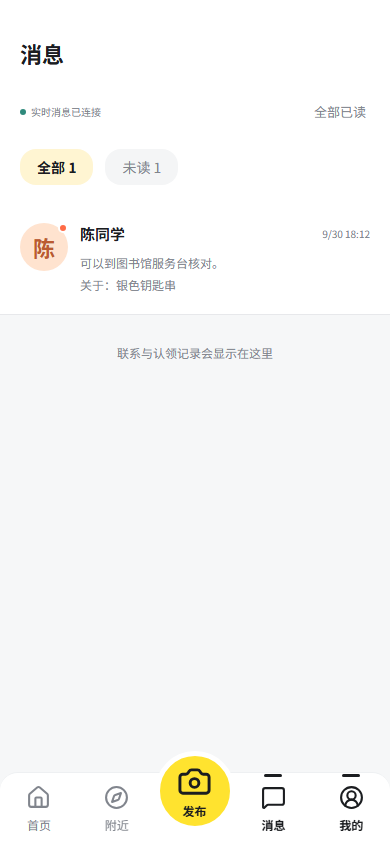
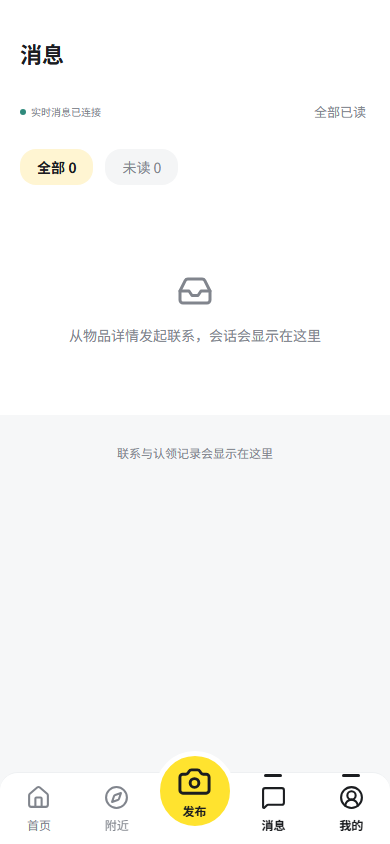
chore: remove demo content and refresh empty-state previews

diff --git a/apps/web/src/components/post-form.tsx b/apps/web/src/components/post-form.tsx
@@ -2,7 +2,7 @@
 import { useState, useEffect, type FormEvent } from 'react';
 import { useRouter } from 'next/navigation';
 import { Plus, X } from 'lucide-react';
-import { categories, campusPlaces } from '../modules/message/constants.ts';
+import { categories } from '../modules/message/constants.ts';
 import { postInputSchema } from '../modules/message/schemas.ts';
 import type { Post, PostInput } from '../modules/message/models.ts';
 import { api, errorMessage } from '@/lib/api';
@@ -196,7 +196,7 @@ export function PostForm() {
           <span>物品名称</span>
           <input
             aria-label="物品名称"
-            placeholder="如：银色钥匙串"
+            placeholder="请输入物品名称"
             value={form.title}
             maxLength={60}
             onChange={(e) => update('title', e.target.value)}
@@ -220,8 +220,7 @@ export function PostForm() {
           <span>{form.type === 'lost' ? '丢失' : '拾取'}地点</span>
           <input
             aria-label="地点"
-            list="campus-places"
-            placeholder="选择地点或手动填写"
+            placeholder="请输入实际地点或在地图上选点"
             value={form.location}
             maxLength={120}
             onChange={(e) => {
@@ -234,11 +233,6 @@ export function PostForm() {
               }));
             }}
           />
-          <datalist id="campus-places">
-            {campusPlaces.map((p) => (
-              <option key={p.name} value={p.name} />
-            ))}
-          </datalist>
         </label>
         <label>
           <span>{form.type === 'lost' ? '丢失' : '拾取'}时间</span>

diff --git a/tests/product.spec.ts b/tests/product.spec.ts
@@ -44,7 +44,7 @@ test('Mobile product flow: publish, search, favorites, history, two-user live ch
   await page.getByRole('link', { name: '发布', exact: true }).click();
   await page.getByRole('textbox', { name: '物品名称', exact: true }).fill(title);
   await page.getByRole('combobox', { name: '物品类别' }).selectOption('keys');
-  await page.getByRole('combobox', { name: '地点', exact: true }).fill('图书馆 · 2楼');
+  await page.getByRole('textbox', { name: '地点', exact: true }).fill('图书馆 · 2楼');
   await page.locator('summary').filter({ hasText: '地图位置' }).click();
   await page.getByRole('spinbutton', { name: '地图纬度' }).fill('26.0588');
   await page.getByRole('spinbutton', { name: '地图经度' }).fill('119.1968');

diff --git a/tests/nearby.spec.ts b/tests/nearby.spec.ts
@@ -110,7 +110,7 @@ test('Publishing a map position persists it and shows the post on Nearby', async
   await expect
     .poll(async () => Number(await page.getByRole('spinbutton', { name: '地图纬度' }).inputValue()))
     .toBeCloseTo(26.0585, 6);
-  await expect(page.getByRole('combobox', { name: '地点', exact: true })).toHaveValue(
+  await expect(page.getByRole('textbox', { name: '地点', exact: true })).toHaveValue(
     '测试城市测试学校图书馆',
   );
   await page.getByRole('textbox', { name: '地点所在城市' }).fill('测试城市');

diff --git a/apps/web/src/modules/message/constants.ts b/apps/web/src/modules/message/constants.ts
@@ -6,14 +6,5 @@ export const categories = {
   card: '证件卡片',
   other: '其他',
 } as const;
-export const campusPlaces = [
-  { name: '图书馆 · 2楼' },
-  { name: '教学楼A座 · 1楼' },
-  { name: '体育馆 · 门口' },
-  { name: '食堂西门' },
-  { name: '操场 · 看台' },
-  { name: '宿舍楼 · 门口' },
-  { name: '图书馆 · 服务台' },
-] as const;
 // Initial map viewport only; never substitute this for the device's location.
 export const defaultMapCenter = { lat: 26.0575, lng: 119.1968 };

diff --git a/apps/web/src/app/globals.css b/apps/web/src/app/globals.css
@@ -1390,7 +1390,7 @@ svg {
 .baidu-map {
   position: relative;
   width: 100%;
-  height: 470px;
+  height: min(470px, 50svh);
   background: #edf0e6;
   overflow: hidden;
 }
@@ -1575,6 +1575,10 @@ svg {
 .nearby-panel > p {
   padding: 0 20px 12px;
   font-size: 10px;
+}
+.nearby-panel .empty {
+  padding: 24px 20px;
+  min-height: 140px;
 }
 .nearby-panel .post-row {
   padding: 12px 20px;

diff --git a/docs/validation.md b/docs/validation.md
@@ -1,6 +1,15 @@
 # 验证记录
 
+## 2026-10-03 清理演示数据
+
+- 核验原有演示账号及 Post 的 ID、账号名称和标题后，在事务中删除 2 个演示账号、8 条 Post（含草稿及已完成信息）、1 个会话、3 条消息、2 条收藏、3 条浏览记录和 4 个登录会话。主数据库的账号、Post、会话和消息均为 0，外键检查通过，数据库结构及迁移记录保留。
+- 移除发布表单的预置校园地点选项，名称与地点保持空白。地图初始视野仅供浏览，不写入新 Post，也不当作设备位置。
+- 清理旧地图预览数据库；截图脚本不再创建演示 Post 或填入物品示例，结束后自动删除临时数据库与登录账号。更新 13 张截图为空页面及空发布表单，删除包含演示物品详情和演示用户资料的旧截图。真实地图没有 Post 标记，报告确认空列表与空表单，未出现浏览器错误或服务弹窗。
+- 调整附近地图高度和空状态间距，让小屏下的空结果提示显示在底部导航上方。类型检查、生产构建及附近 / 既有产品流程 6 项浏览器回归测试通过；真实 SDK 选点和模拟 GPS 的实际百度坐标转换继续通过。测试只向隔离数据库写入临时测试数据。
+
 ## 2026-10-03 百度地图与附近 Post
+
+以下为清理演示数据前的接入验证；当前截图已更新为上述空页面。
 
 - `npm run check`、`npm run build` 通过；修改文件的格式检查和 `git diff --check` 通过。
 - 服务端 33 项测试通过。新增附近测试验证 BD-09、半径、类型、距离排序、空结果和参数校验；草稿、完成、删除、无坐标、经度缺失和 legacy 数据不进入附近结果。旧坐标可继续查看，重新选点保存后进入附近。

diff --git a/README.md b/README.md
@@ -110,4 +110,4 @@ $env:E2E_PRODUCTION = $null
 
 API 路由和协议见 [API 说明](docs/api.md)。
 
-检查地图前端界面可执行 `npm run build` 后运行 `npm run preview:maps`。脚本自动启动独立的生产预览服务，在独立数据库中创建界面检查用发布，使用真实百度 SDK 截取附近、寻物 / 招领筛选、320 px 小屏、桌面及发布地图选点页面；图片和地图加载状态报告保存到 `docs/screenshots/`，结束后停止预览服务。不会使用原校园示意图或替换百度地图响应；地图不可用时截图会呈现实际失败状态。
+检查地图前端界面可执行 `npm run build` 后运行 `npm run preview:maps`。脚本自动启动独立的生产预览服务，使用空数据库和真实百度 SDK 截取附近、寻物 / 招领筛选、320 px 小屏、桌面及发布地图选点页面，同时更新首页、搜索、消息和我的发布的空状态截图。不创建演示 Post，不预填物品表单；图片和地图加载状态报告保存到 `docs/screenshots/`，结束后停止服务并删除临时预览数据库及登录账号。不会使用原校园示意图或替换百度地图响应；地图不可用时截图会呈现实际失败状态。

diff --git a/docs/deployment.md b/docs/deployment.md
@@ -72,7 +72,7 @@ location = /ws {
 
 重构沿用原有 `data/mayoimon.sqlite`、表结构、会话和上传文件，无需重新建库。首次启动自动建表，账号和信息通过页面创建。迁移版本记录在 schema_migrations，未来升级通过新增版本迁移保留数据。
 
-`data`、`.env.local`、node_modules 和构建缓存被 Git 忽略，部署时使用 `npm ci` 从锁文件安装。生产环境从空数据库注册真实用户，公开演示账号仅用于本地演示。
+`data`、`.env.local`、node_modules 和构建缓存被 Git 忽略，部署时使用 `npm ci` 从锁文件安装。首次运行使用空数据库，账号与 Post 由用户通过页面创建，不预置演示账号或发布。
 
 ## 聊天记录保留策略
 
